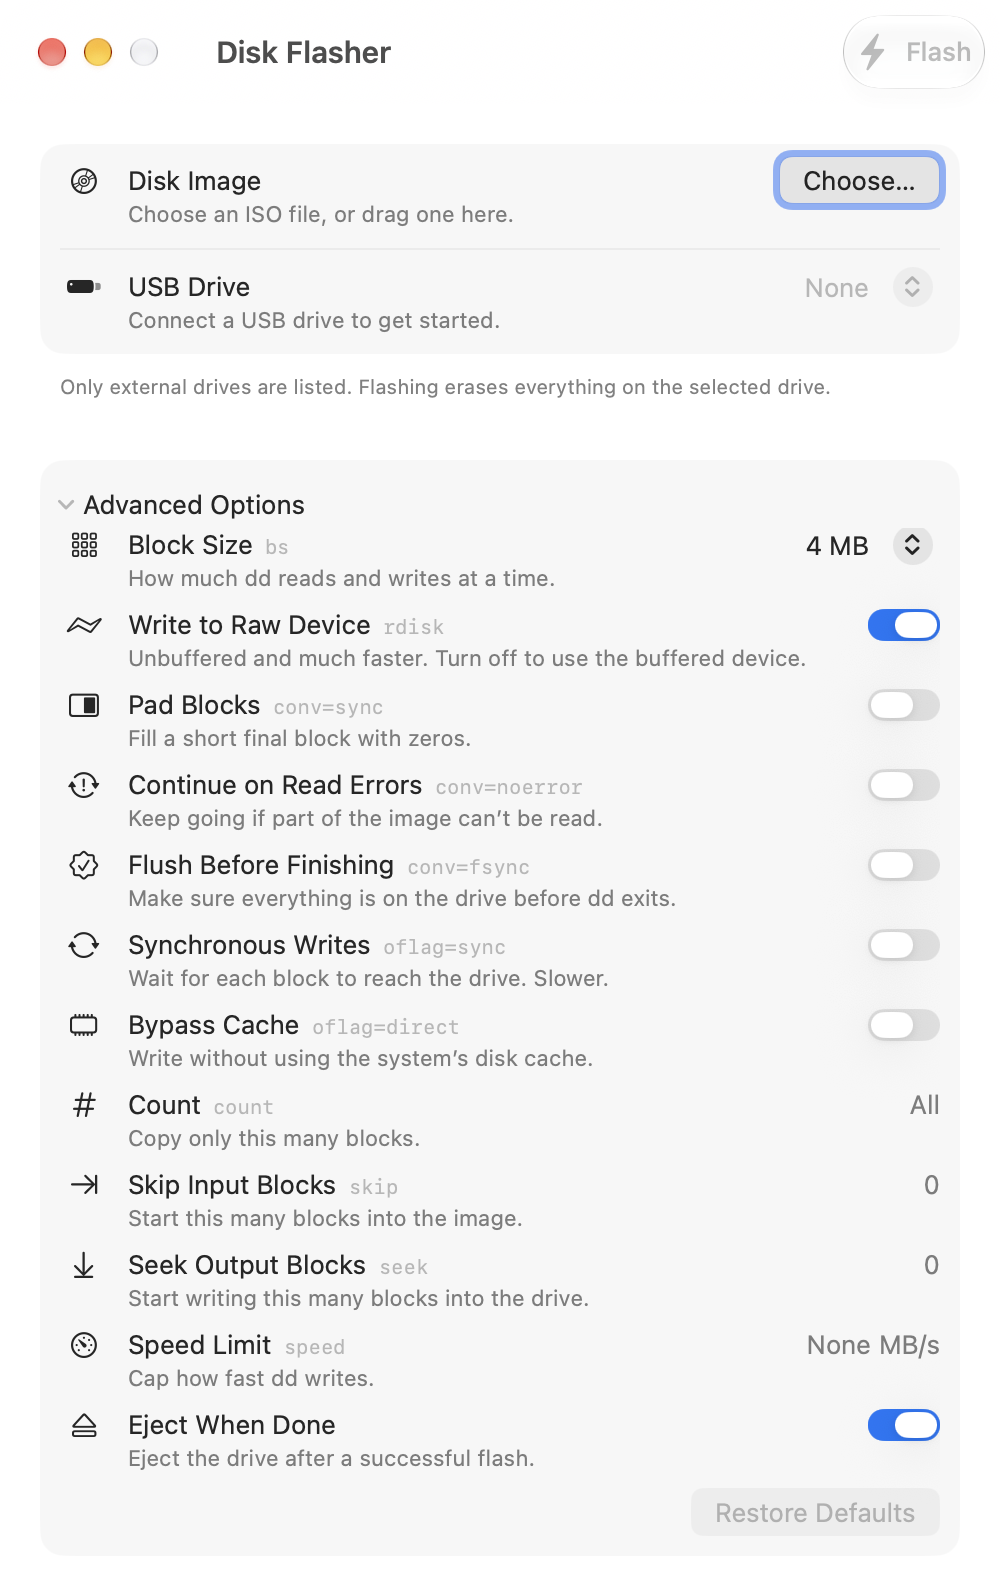
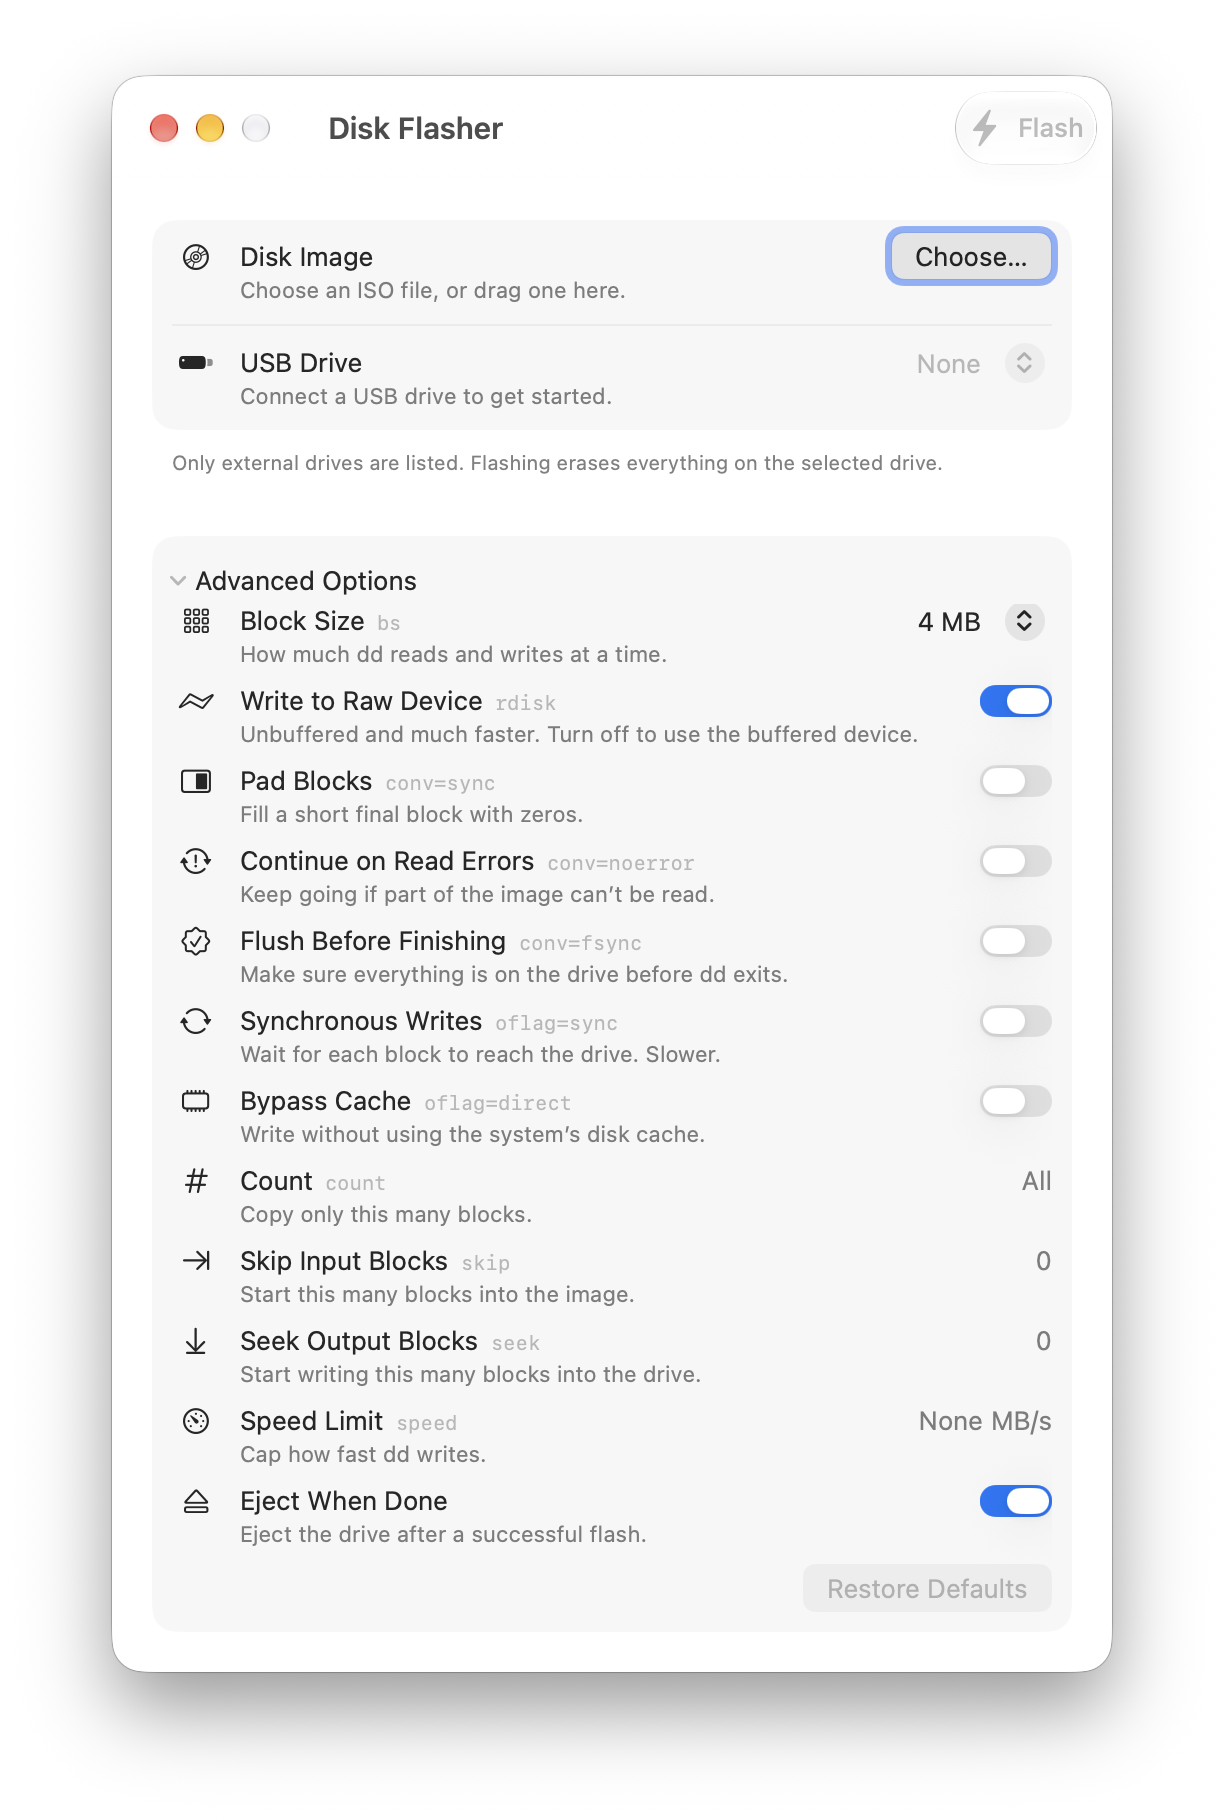
Keep the window shadow in the README screenshots

diff --git a/README.md b/README.md
@@ -3,7 +3,7 @@
 A small, native macOS app for writing ISO and IMG disk images to USB drives. It is a friendly window on top of the `dd` command that ships with every Mac, so there is nothing else to install.
 
 <p align="center">
-  <img src="docs/main-window.png" alt="The Disk Flasher window, with a Disk Image row, a USB Drive menu and a Flash button in the toolbar" width="500">
+  <img src="docs/main-window.png" alt="The Disk Flasher window, with a Disk Image row, a USB Drive menu and a Flash button in the toolbar" width="612">
 </p>
 
 ## What it does
@@ -60,7 +60,7 @@ To stop partway through, click **Cancel** in the toolbar. A drive that was cance
 Click **Advanced Options** to expand the panel. The defaults suit almost every image, so you can leave these alone unless you know you need one. Each row shows the `dd` operand it controls.
 
 <p align="center">
-  <img src="docs/advanced-options.png" alt="The Advanced Options panel expanded, listing the dd options" width="500">
+  <img src="docs/advanced-options.png" alt="The Advanced Options panel expanded, listing the dd options" width="612">
 </p>
 
 | Option | `dd` operand | Default | What it does |
